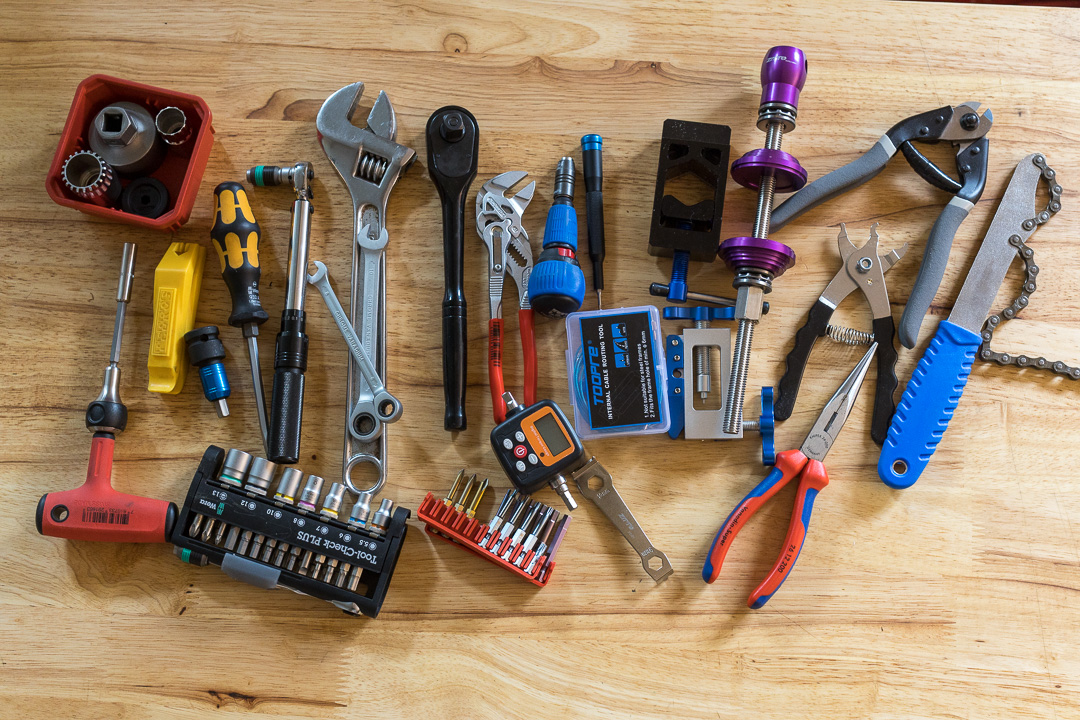
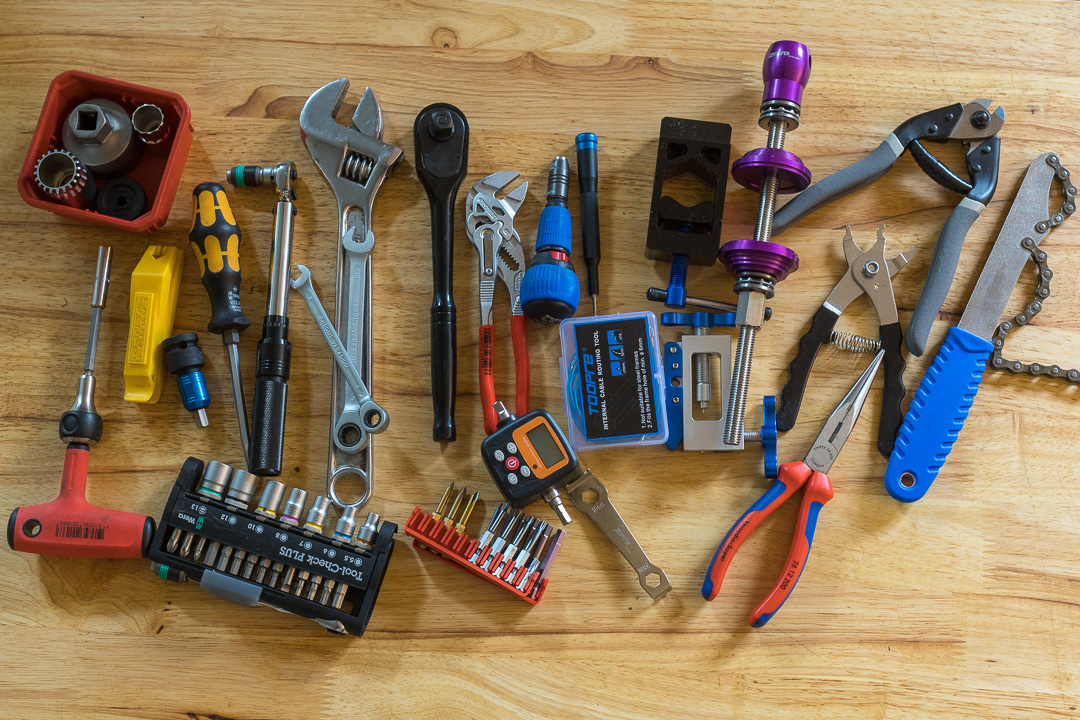
Updates

diff --git a/_posts/2023-10-4-ALIEXPRESS_ALLROAD_PLAN.md b/_posts/2023-10-4-ALIEXPRESS_ALLROAD_PLAN.md
@@ -43,7 +43,6 @@ Ultimately, I like tinkering, and I wanted to see what these components are actu
 
 # Part Overview
 
-
 I have included background information, selection justification, and occassionally more indepth notes where relevant.
 
 ## Parts and Prices
@@ -498,39 +497,39 @@ Here is a simple reference for static threaded metal joints on the bike comparin
   <tbody>
     <tr>
       <td>Aluminium, aluminium</td>
-      <td><span class="risk-badge risk-low" title="Low risk">galling</span><span class="risk-badge risk-low" title="Low risk">corrosion</span></td>
-      <td><span class="risk-badge risk-medium" title="Medium risk">galling</span><span class="risk-badge risk-low" title="Low risk">corrosion</span></td>
-      <td><span class="risk-badge risk-high" title="High risk">galling</span><span class="risk-badge risk-medium" title="Medium risk">corrosion</span></td>
+      <td><span class="risk-badge risk-low" title="Low risk">galling</span><br><span class="risk-badge risk-low" title="Low risk">corrosion</span></td>
+      <td><span class="risk-badge risk-medium" title="Medium risk">galling</span><br><span class="risk-badge risk-low" title="Low risk">corrosion</span></td>
+      <td><span class="risk-badge risk-high" title="High risk">galling</span><br><span class="risk-badge risk-medium" title="Medium risk">corrosion</span></td>
     </tr>
     <tr>
       <td>Aluminium, titanium</td>
-      <td><span class="risk-badge risk-low" title="Low risk">galling</span><span class="risk-badge risk-medium" title="Medium risk">corrosion</span></td>
-      <td><span class="risk-badge risk-medium" title="Medium risk">galling</span><span class="risk-badge risk-medium" title="Medium risk">corrosion</span></td>
-      <td><span class="risk-badge risk-high" title="High risk">galling</span><span class="risk-badge risk-high" title="High risk">corrosion</span></td>
+      <td><span class="risk-badge risk-low" title="Low risk">galling</span><br><span class="risk-badge risk-medium" title="Medium risk">corrosion</span></td>
+      <td><span class="risk-badge risk-medium" title="Medium risk">galling</span><br><span class="risk-badge risk-medium" title="Medium risk">corrosion</span></td>
+      <td><span class="risk-badge risk-high" title="High risk">galling</span><br><span class="risk-badge risk-high" title="High risk">corrosion</span></td>
     </tr>
     <tr>
       <td>Aluminium, steel</td>
-      <td><span class="risk-badge risk-low" title="Low risk">galling</span><span class="risk-badge risk-medium" title="Medium risk">corrosion</span></td>
-      <td><span class="risk-badge risk-low" title="Low risk">galling</span><span class="risk-badge risk-medium" title="Medium risk">corrosion</span></td>
-      <td><span class="risk-badge risk-medium" title="Medium risk">galling</span><span class="risk-badge risk-high" title="High risk">corrosion</span></td>
+      <td><span class="risk-badge risk-low" title="Low risk">galling</span><br><span class="risk-badge risk-medium" title="Medium risk">corrosion</span></td>
+      <td><span class="risk-badge risk-low" title="Low risk">galling</span><br><span class="risk-badge risk-medium" title="Medium risk">corrosion</span></td>
+      <td><span class="risk-badge risk-medium" title="Medium risk">galling</span><br><span class="risk-badge risk-high" title="High risk">corrosion</span></td>
     </tr>
     <tr>
       <td>Titanium, titanium</td>
-      <td><span class="risk-badge risk-low" title="Low risk">galling</span><span class="risk-badge risk-low" title="Low risk">corrosion</span></td>
-      <td><span class="risk-badge risk-medium" title="Medium risk">galling</span><span class="risk-badge risk-low" title="Low risk">corrosion</span></td>
-      <td><span class="risk-badge risk-high" title="High risk">galling</span><span class="risk-badge risk-low" title="Low risk">corrosion</span></td>
+      <td><span class="risk-badge risk-low" title="Low risk">galling</span><br><span class="risk-badge risk-low" title="Low risk">corrosion</span></td>
+      <td><span class="risk-badge risk-medium" title="Medium risk">galling</span><br><span class="risk-badge risk-low" title="Low risk">corrosion</span></td>
+      <td><span class="risk-badge risk-high" title="High risk">galling</span><br><span class="risk-badge risk-low" title="Low risk">corrosion</span></td>
     </tr>
     <tr>
       <td>Titanium, steel</td>
-      <td><span class="risk-badge risk-low" title="Low risk">galling</span><span class="risk-badge risk-low" title="Low risk">corrosion</span></td>
-      <td><span class="risk-badge risk-medium" title="Medium risk">galling</span><span class="risk-badge risk-low" title="Low risk">corrosion</span></td>
-      <td><span class="risk-badge risk-high" title="High risk">galling</span><span class="risk-badge risk-medium" title="Medium risk">corrosion</span></td>
+      <td><span class="risk-badge risk-low" title="Low risk">galling</span><br><span class="risk-badge risk-low" title="Low risk">corrosion</span></td>
+      <td><span class="risk-badge risk-medium" title="Medium risk">galling</span><br><span class="risk-badge risk-low" title="Low risk">corrosion</span></td>
+      <td><span class="risk-badge risk-high" title="High risk">galling</span><br><span class="risk-badge risk-medium" title="Medium risk">corrosion</span></td>
     </tr>
     <tr>
       <td>Steel, steel</td>
-      <td><span class="risk-badge risk-low" title="Low risk">galling</span><span class="risk-badge risk-low" title="Low risk">corrosion</span></td>
-      <td><span class="risk-badge risk-low" title="Low risk">galling</span><span class="risk-badge risk-low" title="Low risk">corrosion</span></td>
-      <td><span class="risk-badge risk-medium" title="Medium risk">galling</span><span class="risk-badge risk-high" title="High risk">corrosion</span></td>
+      <td><span class="risk-badge risk-low" title="Low risk">galling</span><br><span class="risk-badge risk-low" title="Low risk">corrosion</span></td>
+      <td><span class="risk-badge risk-low" title="Low risk">galling</span><br><span class="risk-badge risk-low" title="Low risk">corrosion</span></td>
+      <td><span class="risk-badge risk-medium" title="Medium risk">galling</span><br><span class="risk-badge risk-high" title="High risk">corrosion</span></td>
     </tr>
   </tbody>
 </table>
@@ -622,7 +621,72 @@ After that, I turned the heat off and let the wax cool toward 60 degrees Celsius
 
 
 
+
+
+
+# Conclusion
   
+
+<figure>
+  <img src="/files/ALIEXPRESS_ALLROAD/aliexpress--2.jpg">
+  <figcaption>Drivetrain rear: LTWOO RX derailleur, 12-speed ZRACE cassette.</figcaption>
+</figure>
+
+
+
+
+
+
+
+
+
+
+
+
+<figure>
+  <img src="/files/ALIEXPRESS_ALLROAD/aliexpress--4.jpg">
+  <figcaption>Drivetrain front: </figcaption>
+</figure>
+
+<figure>
+  <img src="/files/ALIEXPRESS_ALLROAD/aliexpress--5.jpg">
+  <figcaption>Drivetrain front:</figcaption>
+</figure>
+
+
+
+
+
+<figure>
+  <img src="/files/ALIEXPRESS_ALLROAD/aliexpress--6.jpg">
+  <figcaption>Hydraulic brakes.</figcaption>
+</figure>
+
+
+<figure>
+  <img src="/files/ALIEXPRESS_ALLROAD/aliexpress--8.jpg">
+  <figcaption>Ryet 3D printed saddle.</figcaption>
+</figure>
+
+<figure>
+  <img src="/files/ALIEXPRESS_ALLROAD/aliexpress--7.jpg">
+  <figcaption>Ryet 3D printed saddle.</figcaption>
+</figure>
+
+
+
+
+<figure>
+  <img src="/files/ALIEXPRESS_ALLROAD/aliexpress--9.jpg">
+  <figcaption>LTWOO RX brake lever and shifter.</figcaption>
+</figure>
+
+
+
+
+
+
+
 
 
 
@@ -638,3 +702,4 @@ After that, I turned the heat off and let the wax cool toward 60 degrees Celsius
 <figure>
   <img src="/files/ALIEXPRESS_ALLROAD/bike-1.jpg">
    <figcaption>2023 build out with Senicx PR3 34/50T crankset, tubeless tires, L-TWOO RX hyd
+</figure>